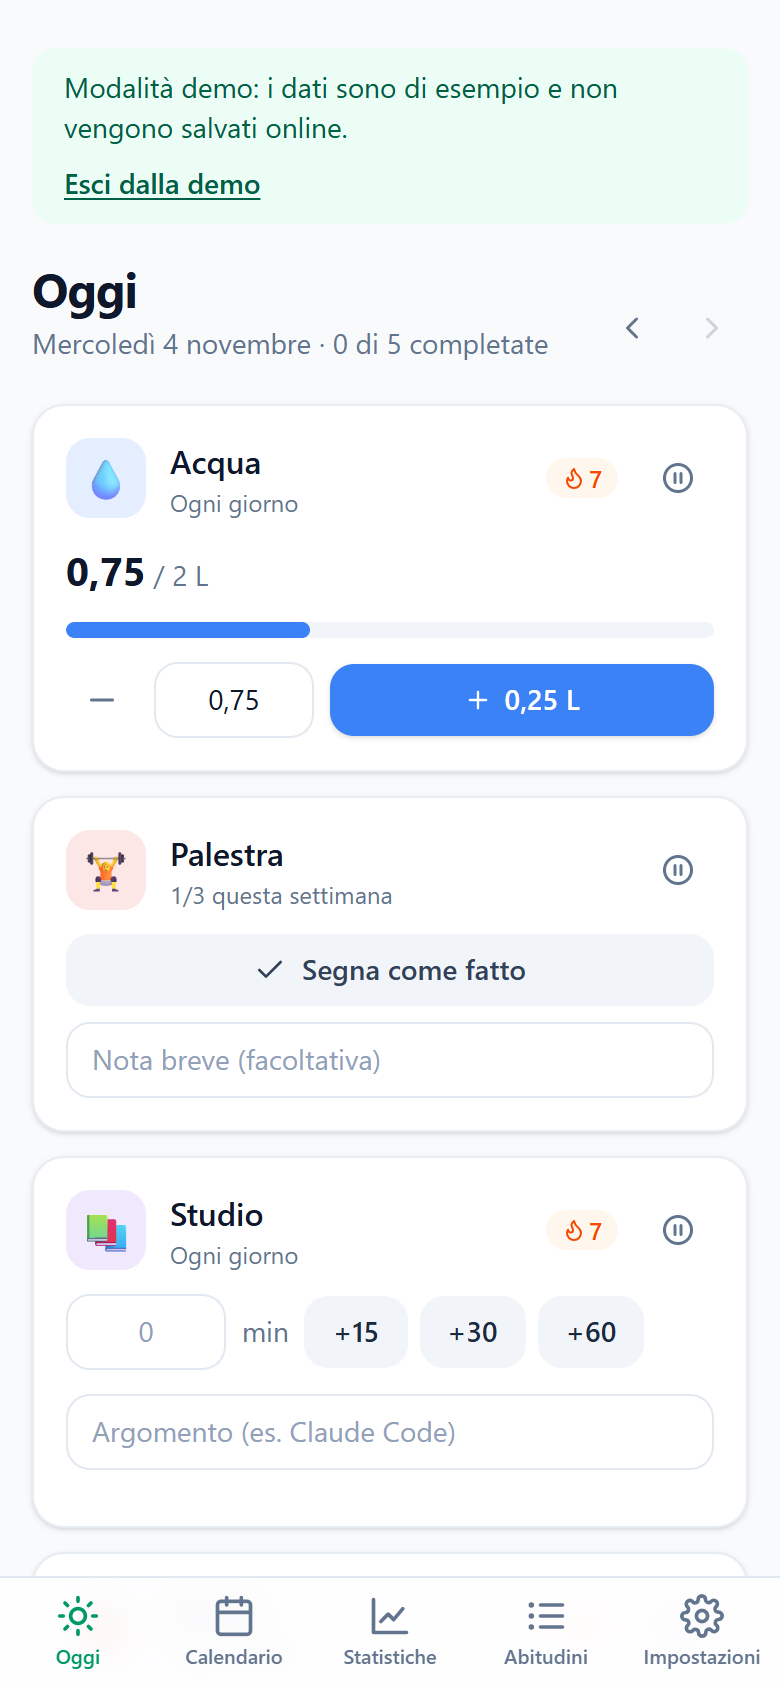
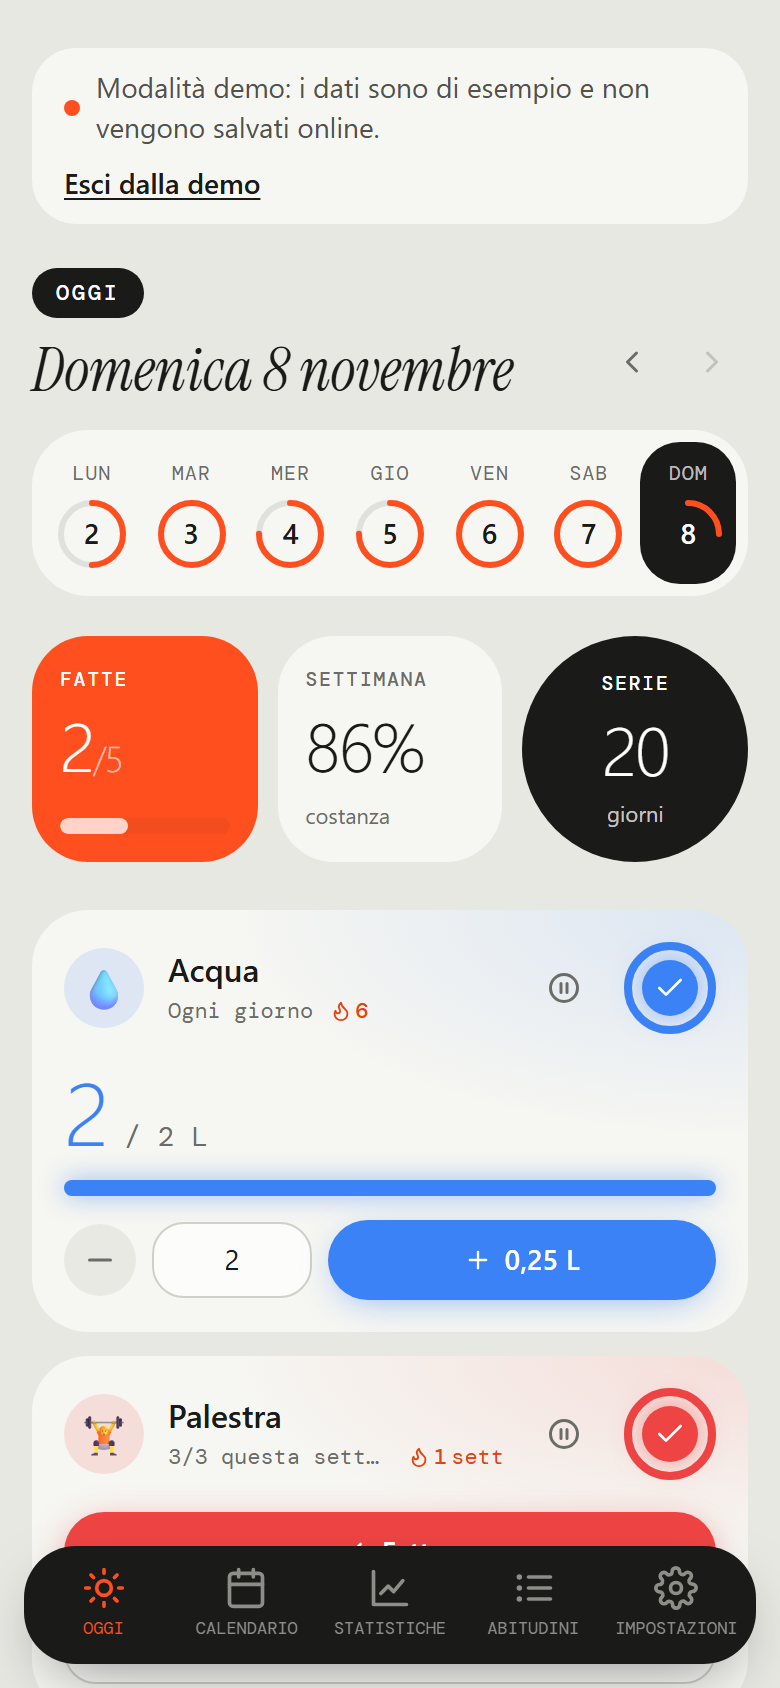
Chiusura progetto: titolo su due righe da telefono, screenshot e README
- La data in Oggi va a capo invece di essere tagliata sugli schermi stretti
- Screenshot nuovi nel README (anche tema scuro), stile e caratteri descritti
- Roadmap: fase 4 (nuova grafica e logo)

diff --git a/src/pages/TodayPage.tsx b/src/pages/TodayPage.tsx
@@ -94,7 +94,7 @@ export function TodayPage() {
             <p className="label-mono inline-flex rounded-full bg-ink-900 px-3 py-1 text-white dark:bg-ink-50 dark:text-ink-900">
               {eyebrow(date, today)}
             </p>
-            <h1 className="mt-3 truncate font-serif text-[34px] leading-none italic sm:text-5xl">
+            <h1 className="mt-3 font-serif text-[30px] leading-[0.95] text-balance italic sm:text-5xl">
               {capitalize(formatLong(date))}
             </h1>
           </div>

diff --git a/README.md b/README.md
@@ -5,12 +5,15 @@ App personale per tracciare abitudini, sonno e pasti. Pensata per il telefono, c
 **Prova la demo, senza account:** https://habit-tracker-eta-three-88.vercel.app/?demo
 
 <p>
-  <img src="docs/screenshots/oggi-chiaro.png" alt="Pagina Oggi con il check-in delle abitudini" width="250">
-  <img src="docs/screenshots/calendario.png" alt="Calendario del mese con i giorni completati" width="250">
-  <img src="docs/screenshots/statistiche.png" alt="Statistiche settimanali" width="250">
+  <img src="docs/screenshots/oggi-chiaro.png" alt="Pagina Oggi: settimana ad anelli, riepilogo e check-in delle abitudini" width="185">
+  <img src="docs/screenshots/calendario.png" alt="Calendario del mese con i giorni a cerchio" width="185">
+  <img src="docs/screenshots/statistiche.png" alt="Statistiche con la percentuale a puntini" width="185">
+  <img src="docs/screenshots/oggi-scuro.png" alt="Pagina Oggi in tema scuro" width="185">
 </p>
 
 <img src="docs/screenshots/desktop.png" alt="Statistiche su desktop" width="770">
+
+**Stile "strumento di misura"**: grigio caldo, nero inchiostro e un solo accento arancio; etichette monospaziate, titoli in corsivo con grazie e numeri giganti a puntini come un display. Il logo è una spunta disegnata a penna.
 
 ## Funzionalità
 
@@ -26,8 +29,8 @@ App personale per tracciare abitudini, sonno e pasti. Pensata per il telefono, c
 - **Frequenze** — ogni giorno, giorni specifici della settimana, oppure X volte a settimana.
 - **Giorni non applicabili** — per una singola abitudine o per tutta la giornata (vacanza, malattia): non interrompono la serie e non contano nelle percentuali.
 - **Streak** — serie attuale e record; in settimane per le abitudini "X volte a settimana".
-- **Calendario** — vista mensile complessiva o per abitudine; tocca un giorno per vedere e modificare i dati.
-- **Statistiche** — completamento settimanale/mensile, media del sonno, media dell'acqua, minuti di studio, grafici dell'andamento.
+- **Calendario** — vista mensile complessiva o per abitudine, con i giorni a cerchio che si riempiono come una torta e il riepilogo del mese; tocca un giorno per vedere e modificare i dati.
+- **Statistiche** — completamento settimanale/mensile, media del sonno, media dell'acqua, ore di studio, serie in corso e record, grafici dell'andamento e una lancetta per ogni abitudine.
 - **Account e sincronizzazione** — accesso via email senza password (link o codice), dati sincronizzati tra telefono e computer.
 - **Installabile e offline** — si aggiunge alla schermata Home; senza connessione si apre lo stesso e le modifiche partono appena torna la rete.
 - **Demo** — dati di esempio verosimili, senza account (`/?demo`).
@@ -37,6 +40,8 @@ App personale per tracciare abitudini, sonno e pasti. Pensata per il telefono, c
 ## Stack
 
 React 19 · TypeScript · Vite · Tailwind CSS 4 · Recharts · Supabase (Auth + Postgres con Row Level Security) · Vercel · Vitest
+
+Caratteri inclusi nel progetto (funzionano anche offline): DM Mono, Doto, Instrument Serif. Colori e caratteri sono definiti una volta sola in [`src/index.css`](src/index.css).
 
 ## Avvio
 
@@ -116,4 +121,5 @@ Le date sono stringhe locali `YYYY-MM-DD`: si confrontano come testo e non risen
 - [x] **Fase 1** — app completa con dati locali, export/import JSON
 - [x] **Fase 2** — login e sincronizzazione con Supabase, pubblicazione su Vercel
 - [x] **Fase 3** — PWA installabile, uso offline, demo, screenshot
+- [x] **Fase 4** — nuova grafica partendo da screenshot di riferimento (image-to-code) e nuovo logo
 - [ ] **Promemoria** — notifiche push a un orario scelto (richiedono un invio programmato lato server)
